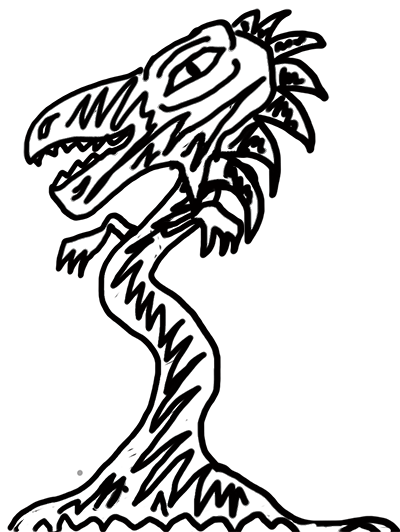
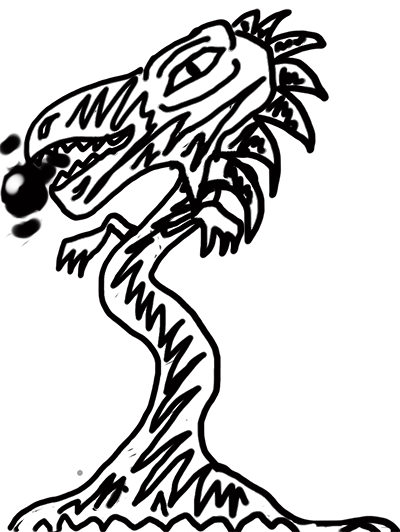
added dino shoot animation and sprite disappearing at entity death

Changed region(s): [[0.0, 0.2406, 0.18, 0.4511]]

diff --git a/src/view/SpriteManagerImpl.java b/src/view/SpriteManagerImpl.java
@@ -5,7 +5,7 @@ import java.util.Map;
 
 import javafx.scene.layout.Pane;
 
-public class SpriteManagerImpl {
+public class SpriteManagerImpl implements SpriteManager, SpriteRemover {
     
     private final Pane entitiesPane;
     private final Map<Integer, Sprite> nonUpdatableSprite = new HashMap<>();
@@ -15,18 +15,20 @@ public class SpriteManagerImpl {
         this.entitiesPane = entitiesPane;
     }
     
+    @Override
     public void addSprite(final ControlComunication addedEntity) {
         if (addedEntity.getEntity().isAnimated()) {
-            this.updatableSprite.put(addedEntity.getCode(), new UpdatableSpriteImpl(addedEntity.getEntity(), addedEntity.getProperty().getDimension()));
+            this.updatableSprite.put(addedEntity.getCode(), new UpdatableSpriteImpl(addedEntity.getEntity(), addedEntity.getCode(), addedEntity.getProperty().getDimension(), this));
         } else {
-            this.nonUpdatableSprite.put(addedEntity.getCode(), new NonUpdatableSprite(addedEntity.getEntity(), addedEntity.getProperty().getDimension()));
+            this.nonUpdatableSprite.put(addedEntity.getCode(), new NonUpdatableSprite(addedEntity.getEntity(), addedEntity.getCode(), addedEntity.getProperty().getDimension()));
         }
         this.getFromMaps(addedEntity.getCode()).initSprite(addedEntity.getAction(), addedEntity.getProperty().getDirection());
         this.updateSpriteState(addedEntity.getCode(), addedEntity.getAction(), addedEntity.getProperty());
         this.entitiesPane.getChildren().add(this.getFromMaps(addedEntity.getCode()).getSpritePane());
         
     }
-    //to add death control
+    
+    @Override
     public void updateSpriteState(final int code, final Actions action, final ViewPhysicalProperties properties) {
         if (this.updatableSprite.containsKey(code)) {
             this.updatableSprite.get(code).updateSprite(action, properties.getDirection());
@@ -34,12 +36,20 @@ public class SpriteManagerImpl {
         this.getFromMaps(code).getSpritePane().relocate(properties.getPoint().getX(), properties.getPoint().getY());
     }
     
+    @Override
     public boolean isTracked(final int code) {
         return this.updatableSprite.containsKey(code) || this.nonUpdatableSprite.containsKey(code);
     }
     
+    @Override
     public Pane getEntitiesPane() {
         return this.entitiesPane;
+    }
+    
+    @Override
+    public void removeSprite(final int toRemove) {
+        this.entitiesPane.getChildren().remove(this.getFromMaps(toRemove).getSpritePane());
+        this.updatableSprite.remove(toRemove);
     }
     
     private Sprite getFromMaps(final int code) {
@@ -47,6 +57,5 @@ public class SpriteManagerImpl {
             return updatableSprite.get(code);
         }
         return nonUpdatableSprite.get(code);
-    }
-    
+    }   
 }

diff --git a/src/view/AudioManagerImpl.java b/src/view/AudioManagerImpl.java
@@ -1,0 +1,66 @@
+package view;
+
+import java.util.HashMap;
+import java.util.Map;
+
+import javafx.scene.media.AudioClip;
+import javafx.scene.media.Media;
+import javafx.scene.media.MediaPlayer;
+
+public class AudioManagerImpl implements AudioManager {
+    
+    private final static AudioManager audioManager = new AudioManagerImpl();
+    private final Map<String,AudioClip> bufferedClip = new HashMap<>();
+    private MediaPlayer theme;
+    private double effectsVolume = 1.0;
+    
+    private AudioManagerImpl() {};
+    
+    static AudioManager getAudioManager() {
+        return audioManager;
+    }
+
+    @Override
+    public void playClip(final Entities entity, final Actions action) {
+        final String effectIdentifier = entity.getName() + action.getString();
+        if (!this.bufferedClip.containsKey(effectIdentifier)) {
+            this.bufferedClip.put(effectIdentifier, new AudioClip(effectIdentifier + ".wav"));
+        }
+        this.bufferedClip.get(effectIdentifier).play(this.effectsVolume);
+    }
+    
+    
+
+    @Override
+    public double getMusicVolume() {
+        return this.theme.getVolume();
+    }
+
+    @Override
+    public void setMusicVolume(final double volume) {
+        this.theme.setVolume(volume);
+    }
+    
+    @Override
+    public double getEffectsVolume() {
+        return this.effectsVolume;
+    }
+
+    @Override
+    public void setEffectsVolume(final double volume) {
+        this.effectsVolume = volume;
+    }
+
+    @Override
+    public void playTheme() {
+        this.theme = new MediaPlayer(new Media(""));
+        this.theme.setCycleCount(Integer.MAX_VALUE);
+        this.theme.play();
+    }
+
+    @Override
+    public void stopTheme() {
+        this.theme.stop();
+    }
+    
+}

diff --git a/src/view/UpdatableSpriteImpl.java b/src/view/UpdatableSpriteImpl.java
@@ -11,9 +11,11 @@ import javafx.util.Pair;
 public class UpdatableSpriteImpl extends AbstractSprite implements UpdatableSprite {
 
     private Pair<String, Timeline> currentAnimation;
+    private final SpriteRemover remover;
     
-    public UpdatableSpriteImpl(final Entities entity, final Dimension2D dimension) {
-        super(entity, dimension);
+    public UpdatableSpriteImpl(final Entities entity, final int code, final Dimension2D dimension, final SpriteRemover remover) {
+        super(entity, code, dimension);
+        this.remover = remover;
     }
 
     @Override
@@ -30,6 +32,9 @@ public class UpdatableSpriteImpl extends AbstractSprite implements UpdatableSpri
         if (!composedAction.equals(this.currentAnimation.getKey()) && (this.currentAnimation.getValue().cycleCountProperty().get() < 0 || (this.currentAnimation.getValue().cycleCountProperty().get() > 0 && this.currentAnimation.getValue().getStatus() != Status.RUNNING))) {
             this.currentAnimation.getValue().stop();
             this.currentAnimation = new Pair<>(composedAction, animate(composedAction, action.getDuration()));
+        }
+        if (action == Actions.DEATH) {
+            currentAnimation.getValue().setOnFinished(e -> this.remover.removeSprite(super.getCode()));
         }
     }
     

diff --git a/src/model/ModelImpl.java b/src/model/ModelImpl.java
@@ -83,7 +83,7 @@ public class ModelImpl implements Model{
     public List<EntitiesInfo> getState() {
         final List<EntitiesInfo> result = new LinkedList<>();
         this.entities.stream().forEach(t -> {
-            result.add(new EntitiesInfoImpl(t.getCode(), t.getPosition(), t.getMovementManager().isPresent() ? Optional.of(new MovementInfo(t.getMovementManager().get().getSpeed(), t.getMovementManager().get().getBounds(), t.getAction(), t.getMovementManager().get().isCanFly(), null)) : Optional.empty(), t.getLifeManager().getLife(), null, null, null));
+            result.add(new EntitiesInfoImpl(t.getCode(), t.getPosition(), t.getMovementManager().isPresent() ? Optional.of(new MovementInfo(t.getMovementManager().get().getSpeed(), t.getMovementManager().get().getBounds(), t.getAction(), t.getMovementManager().get().isCanFly(), null)) : Optional.of(new MovementInfo(0, null, t.getAction(), false, null)), t.getLifeManager().getLife(), null, null, null));
         });
         return result;
     }

diff --git a/src/view/AbstractSprite.java b/src/view/AbstractSprite.java
@@ -7,12 +7,14 @@ public abstract class AbstractSprite implements Sprite {
     
     private final Pane spritePane;
     private final Entities entity;
+    private final int code;
     private final ResourcesManager resources;
 
-    public AbstractSprite(final Entities entity, final Dimension2D dimension) {
+    public AbstractSprite(final Entities entity, final int code, final Dimension2D dimension) {
         this.resources = new ResourcesManagerImpl(entity, dimension);
         this.spritePane = new Pane();
         this.entity = entity;
+        this.code = code;
         this.spritePane.setPrefWidth(dimension.getWidth());
         this.spritePane.setPrefHeight(dimension.getHeight());
     }
@@ -33,5 +35,9 @@ public abstract class AbstractSprite implements Sprite {
     
     protected ResourcesManager getResourcesManager() {
         return this.resources;
+    }
+    
+    protected int getCode() {
+        return this.code;
     }
 }

diff --git a/src/view/ResourcesManagerImpl.java b/src/view/ResourcesManagerImpl.java
@@ -26,6 +26,7 @@ public class ResourcesManagerImpl implements ResourcesManager {
         if (this.buffer.containsKey(composedAction)) {
             return new LinkedList<>(buffer.get(composedAction));
         }
+        System.out.println(this.entity.getName() + "-" +composedAction);
         final List<ImageView> temp = new LinkedList<>();
         IntStream.range(0, this.entity.getnAssets()).forEach(n -> {
             temp.add(new ImageView(new Image(this.entity.getName() + "/" + composedAction + Integer.toString(n) + ".png", dimension.getWidth(), dimension.getHeight(), false, true)));

diff --git a/src/view/Entities.java b/src/view/Entities.java
@@ -10,7 +10,7 @@ public enum Entities {
     BOCC("bocc", true, 4, Actions.values()),
     MAGNOBULLET("magnobullet",true, 3, Actions.MOVE, Actions.DEATH),
     BOCCBULLET("boccbullet",true, 3, Actions.MOVE, Actions.DEATH),
-    DINO("dino",true, 3, Actions.IDLE, Actions.SHOOT, Actions.DEATH),
+    DINO("dino",true, 4, Actions.IDLE, Actions.SHOOT, Actions.DEATH),
     VOLPE("volpe", true, 3, Actions.values()),
     BUG("bug", true, 3, Actions.MOVE, Actions.IDLE, Actions.SHOOT, Actions.DEATH),
     BULLET("bullet", true, 3, Actions.MOVE, Actions.DEATH),

diff --git a/src/view/NonUpdatableSprite.java b/src/view/NonUpdatableSprite.java
@@ -8,8 +8,8 @@ import javafx.scene.layout.HBox;
 
 public class NonUpdatableSprite extends AbstractSprite {
 
-    public NonUpdatableSprite(final Entities entity, final Dimension2D dimension) {
-        super(entity, dimension);
+    public NonUpdatableSprite(final Entities entity, final int code, final Dimension2D dimension) {
+        super(entity, code, dimension);
     }
 
     @Override

diff --git a/src/view/SpriteManager.java b/src/view/SpriteManager.java
@@ -1,0 +1,15 @@
+package view;
+
+import javafx.scene.layout.Pane;
+
+public interface SpriteManager {
+
+    void addSprite(final ControlComunication addedEntity);
+
+    void updateSpriteState(final int code, final Actions action, final ViewPhysicalProperties properties);
+
+    boolean isTracked(final int code);
+
+    Pane getEntitiesPane();
+
+}

diff --git a/src/view/AudioManager.java b/src/view/AudioManager.java
@@ -1,0 +1,13 @@
+package view;
+
+public interface AudioManager {
+    
+    void playClip(final Entities entity, final Actions action);
+    void playTheme();
+    void stopTheme();
+    double getMusicVolume();
+    void setMusicVolume(final double volume);
+    double getEffectsVolume();
+    void setEffectsVolume(final double volume);
+    
+}

diff --git a/src/view/DynamicViewImpl.java b/src/view/DynamicViewImpl.java
@@ -24,7 +24,7 @@ import javafx.util.Duration;
 
 public class DynamicViewImpl extends AbstractGenericView implements DynamicView {
     
-    private SpriteManagerImpl spriteManager;
+    private SpriteManager spriteManager;
     private final Pane overlayPane = new Pane();
     private Optional<OverlayPanel> status = Optional.empty();  
     

diff --git a/src/view/SpriteRemover.java b/src/view/SpriteRemover.java
@@ -1,0 +1,5 @@
+package view;
+
+public interface SpriteRemover {
+    void removeSprite(final int toRemove);
+}
